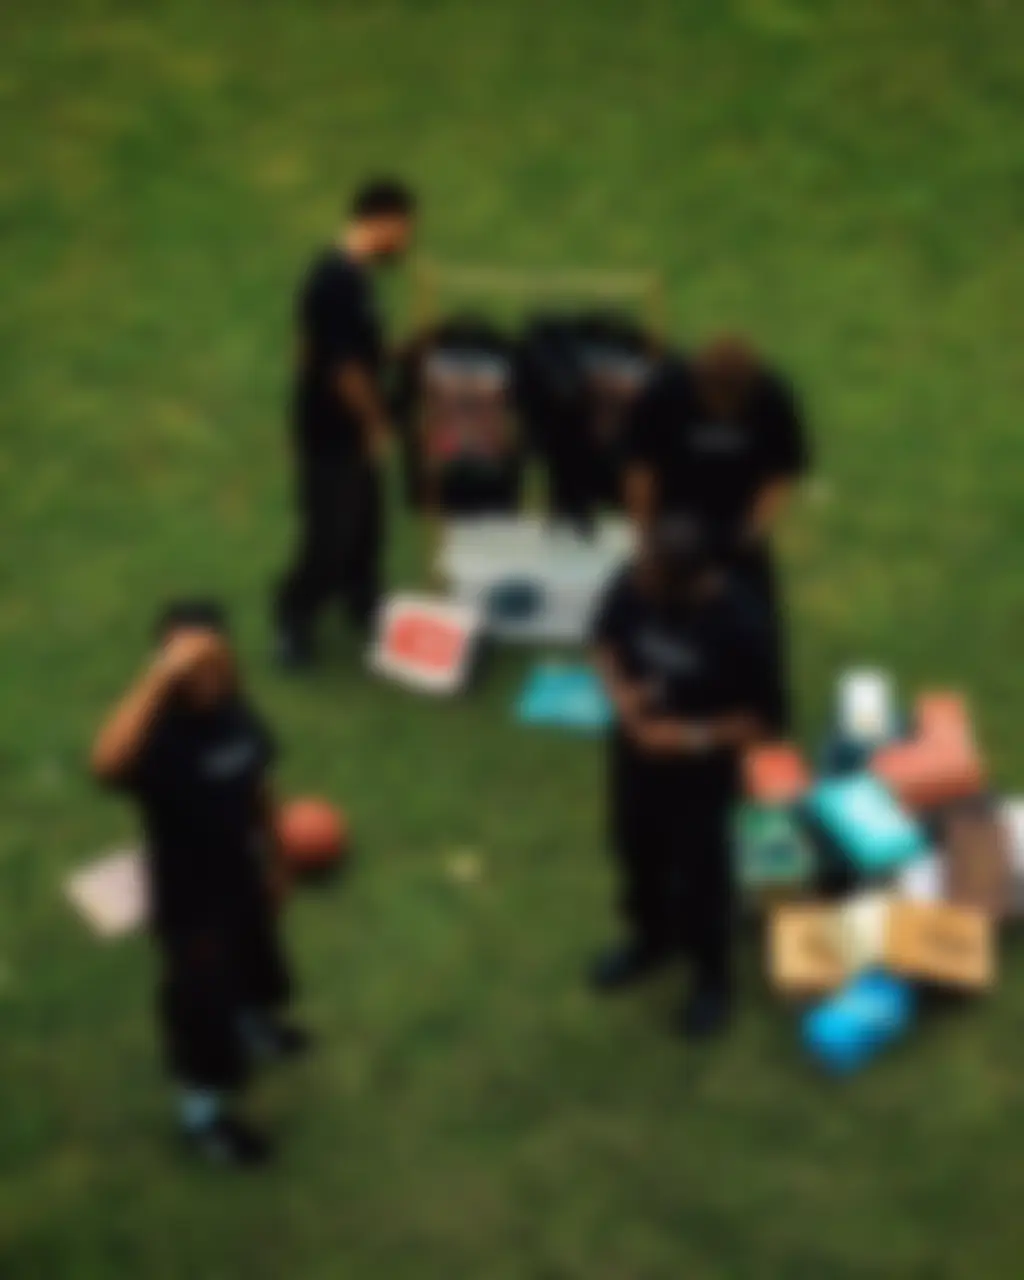
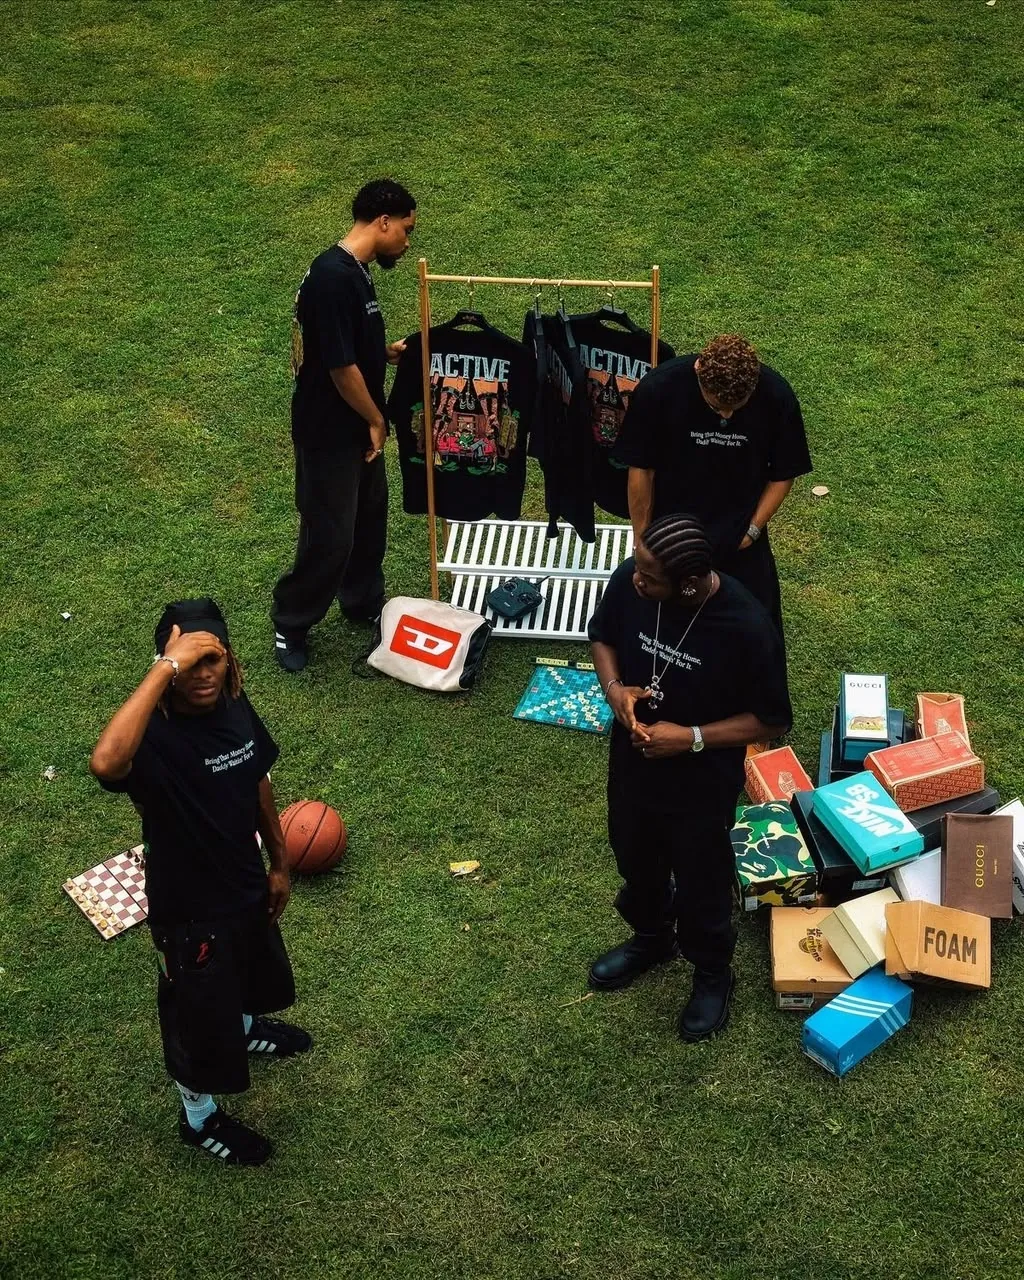
Arrière-plan net : la photo de la marque n'est plus floutée
- public/marque : fond-1024.webp net (source de l'accueil, compressée par
  Next en qualité 60) et fond-galerie.avif / .webp nets derrière les
  chaussures des fiches (57 Ko en AVIF) ; fond-flou et fond-640 retirés
- .fond-marque : image-set AVIF + WebP ; accueil sans agrandissement
- Ombre douce derrière le logo de l'accueil pour rester lisible sur la photo
- Aperçu : image-set ramené au WebP et images des styles intégrées une
  seule fois (variables CSS) ; photo de fond réduite pour le fichier

Lighthouse mobile (accueil, 3 passages) : 97, 93, 95.

Claude-Session: https://claude.ai/code/session_01A4Bv8oVNXv12FzkGXGxe2Y

diff --git a/src/components/site/HeroAccueil.tsx b/src/components/site/HeroAccueil.tsx
@@ -18,8 +18,8 @@ export function HeroAccueil({ vedette, slogan }: { vedette?: Chaussure; slogan: 
         fill
         priority
         sizes="100vw"
-        quality={70}
-        className="-z-20 scale-110 object-cover opacity-90"
+        quality={60}
+        className="-z-20 object-cover opacity-90"
       />
       <div
         aria-hidden
@@ -27,7 +27,7 @@ export function HeroAccueil({ vedette, slogan }: { vedette?: Chaussure; slogan: 
       />
 
       <div className="mx-auto flex w-full max-w-5xl flex-1 flex-col items-center justify-center px-5 pt-[calc(4.5rem+env(safe-area-inset-top))] pb-10 text-center">
-        <div className="flex animate-[entree-douce_0.8s_var(--ease-sortie)_both] flex-col items-center">
+        <div className="flex animate-[entree-douce_0.8s_var(--ease-sortie)_both] flex-col items-center drop-shadow-[0_2px_10px_rgb(0_0_0/0.55)]">
           <LogoMarque className="h-12 w-auto sm:h-14" titre={null} />
           <h1 className="mt-3 text-[15px] font-extrabold tracking-[0.32em] uppercase sm:text-[17px]">Vertical Store</h1>
         </div>

diff --git a/src/app/globals.css b/src/app/globals.css
@@ -170,11 +170,16 @@ select.champ {
 }
 
 /* Fond de marque (photo floutée) avec un halo de lumière derrière la chaussure */
+/* La photo de la marque, nette, derrière les chaussures. AVIF léger, WebP pour les navigateurs plus anciens. */
 @utility fond-marque {
   background-color: #1b2410;
   background-image:
     radial-gradient(60% 55% at 50% 55%, rgb(255 255 255 / 0.22), transparent 70%),
-    linear-gradient(180deg, rgb(10 12 8 / 0.2), rgb(10 12 8 / 0.5)), url("/marque/fond-flou.webp");
+    linear-gradient(180deg, rgb(10 12 8 / 0.2), rgb(10 12 8 / 0.5)), url("/marque/fond-galerie.webp");
+  background-image:
+    radial-gradient(60% 55% at 50% 55%, rgb(255 255 255 / 0.22), transparent 70%),
+    linear-gradient(180deg, rgb(10 12 8 / 0.2), rgb(10 12 8 / 0.5)),
+    image-set(url("/marque/fond-galerie.avif") type("image/avif"), url("/marque/fond-galerie.webp") type("image/webp"));
   background-size: cover;
   background-position: center;
 }

diff --git a/next.config.ts b/next.config.ts
@@ -31,7 +31,7 @@ const nextConfig: NextConfig = {
   },
   images: {
     formats: ["image/avif", "image/webp"],
-    qualities: [70, 80],
+    qualities: [60, 70, 80],
     remotePatterns: supabaseHote
       ? [{ protocol: "https", hostname: supabaseHote, pathname: "/storage/v1/object/public/**" }]
       : [],

diff --git a/scripts/images/preparer_marque.py b/scripts/images/preparer_marque.py
@@ -4,7 +4,7 @@ Vertical Store — prépare les fichiers de marque à partir des originaux.
 
   assets-source/marque/logo-original.jpg  ->  public/marque/logo.svg (vectorisé, couleur = currentColor)
                                               public/icones/*.png (icônes PWA, favicon, Apple)
-  assets-source/marque/fond-original.jpg  ->  public/marque/fond-*.webp (accueil + version floue légère)
+  assets-source/marque/fond-original.jpg  ->  public/marque/fond-*.webp (accueil + fond des fiches, nets)
 
 Utilisation : python scripts/images/preparer_marque.py
 """
@@ -79,16 +79,16 @@ def icone(bitmap: np.ndarray, cote: int, fond, couleur, zone: float) -> Image.Im
 
 def fond() -> None:
     image = Image.open(SOURCE / "fond-original.jpg").convert("RGB")
-    # Le fond est toujours affiché flouté : on floute avant compression (bien plus léger).
-    for largeur in (1024, 640):
-        hauteur = round(image.height * largeur / image.width)
-        reduit = image.resize((largeur, hauteur), Image.LANCZOS)
-        reduit.filter(ImageFilter.GaussianBlur(largeur / 110)).save(
-            MARQUE / f"fond-{largeur}.webp", "WEBP", quality=70, method=6
-        )
-    # Version très floue et minuscule : agrandie en CSS, elle ne pèse presque rien.
-    petit = image.resize((96, 120), Image.LANCZOS).filter(ImageFilter.GaussianBlur(3))
-    petit.save(MARQUE / "fond-flou.webp", "WEBP", quality=80, method=6)
+    # Photo nette. Accueil : source en bonne qualité, que Next redimensionne et compresse pour chaque écran.
+    largeur = min(image.width, 1024)
+    image.resize((largeur, round(image.height * largeur / image.width)), Image.LANCZOS).save(
+        MARQUE / "fond-1024.webp", "WEBP", quality=80, method=6
+    )
+    # Derrière les chaussures des fiches (fond en CSS) : AVIF léger, WebP pour les navigateurs plus anciens.
+    largeur = 720
+    reduit = image.resize((largeur, round(image.height * largeur / image.width)), Image.LANCZOS)
+    reduit.save(MARQUE / "fond-galerie.avif", "AVIF", quality=40, speed=2)
+    reduit.save(MARQUE / "fond-galerie.webp", "WEBP", quality=50, method=6)
 
 
 def main() -> None:

diff --git a/NOTES-TECHNIQUES.md b/NOTES-TECHNIQUES.md
@@ -38,7 +38,7 @@ Tout ce qu'il faut pour installer, mettre en ligne et faire évoluer le site.
 data/catalogue.json            Catalogue de départ (21 chaussures) + zones, numéro, réglages
 assets-source/                 Images originales (montages, logo, fond) et planches de contrôle
 public/chaussures/<slug>/      Vues détourées 1200×1200 (01.webp, 02.webp…)
-public/marque/                 Logo SVG, fonds (flouté léger), icônes
+public/marque/                 Logo SVG, photo de fond nette (AVIF + WebP)
 public/admin.webmanifest       Manifeste PWA de l'admin
 scripts/
   images/decouper_chaussures.py  Découpe + détourage (rembg/BiRefNet) des montages
